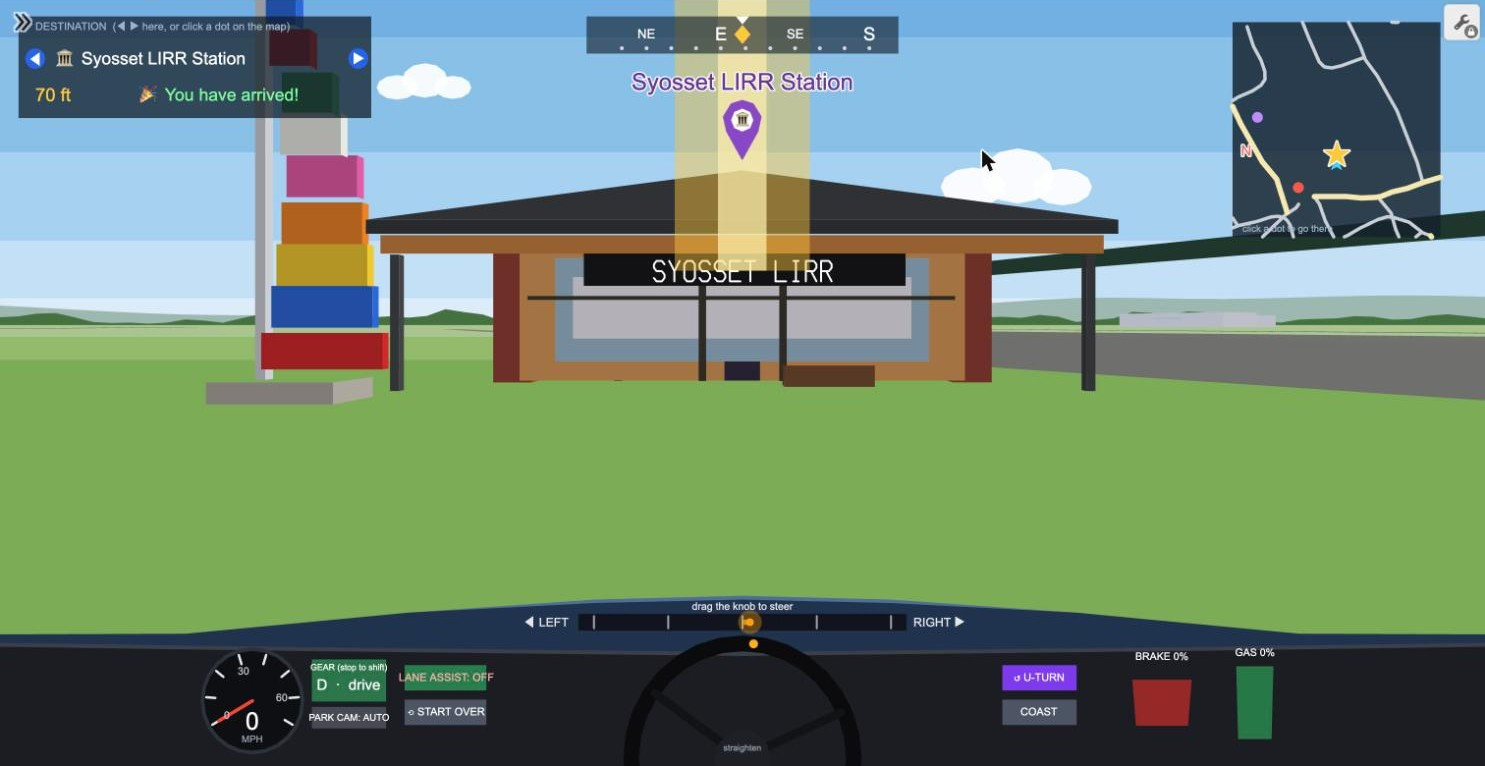
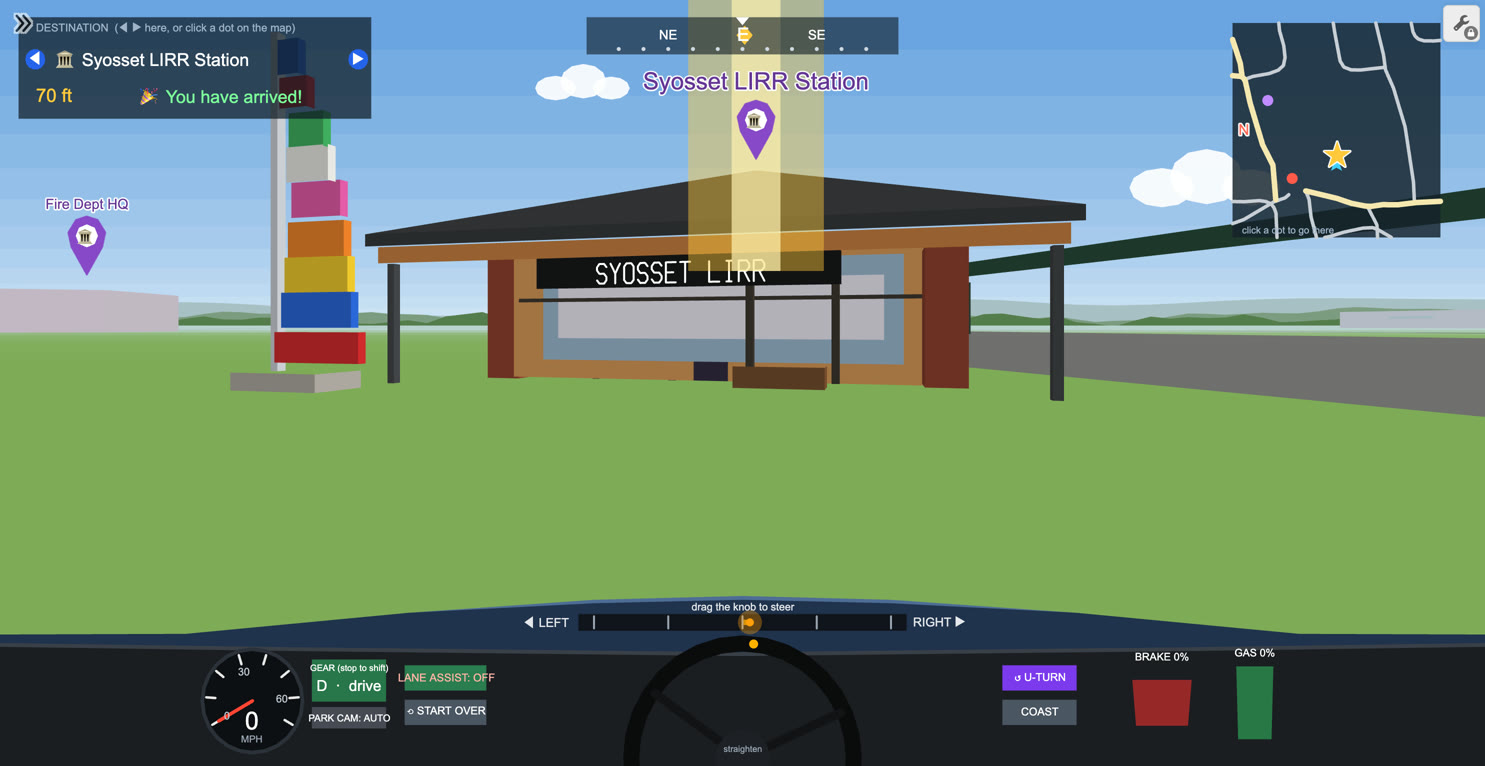
Add sky gradient, distance haze, tree shadows and sunlit crowns (patch11), fold single-use expressions, refresh screenshots

diff --git a/src/patch11.js b/src/patch11.js
@@ -1,0 +1,95 @@
+window.__build11=function(S0){
+ var S=JSON.parse(JSON.stringify(S0)), L=S.expressions.list, log=[];
+ function at(id){for(var i=0;i<L.length;i++){if(L[i].id===id)return i;}throw 'missing '+id;}
+ function get(id){return L[at(id)];}
+ function mk(id,latex,extra){var e={type:'expression',id:id,latex:latex,color:'#000000',hidden:true};if(extra)for(var k in extra)e[k]=extra[k];return e;}
+ function vis(id,latex,color,extra){var e=mk(id,latex,{hidden:false,color:color,fill:true,lines:false,fillOpacity:'1'});if(extra)for(var k in extra)e[k]=extra[k];return e;}
+ function put(i,ref,arr){var f=get(ref).folderId;arr.forEach(function(e){if(e.folderId===undefined&&f)e.folderId=f;});L.splice.apply(L,[i,0].concat(arr));}
+ function after(ref,arr){put(at(ref)+1,ref,arr);}
+ function before(ref,arr){put(at(ref),ref,arr);}
+ function drop(ids){ids.forEach(function(id){L.splice(at(id),1);});}
+ function fmt(v){return String(+v.toFixed(4));}
+ function lst(a){return '\\left['+a.map(fmt).join(',')+'\\right]';}
+ function lerp(a,b,t){return a.map(function(v,k){return Math.round(v+(b[k]-v)*t);});}
+ function col(c,k){return c.map(function(x){return x[k];});}
+
+ var sky=[0,0.02,0.045,0.075,0.11,0.15,0.2,0.26,0.33,0.41,0.5,0.6,0.72,0.86,1.4];
+ var skyCols=sky.slice(0,-1).map(function(_,i){return lerp([222,237,248],[92,156,222],Math.pow((sky[i]+sky[i+1])/2/0.95,0.6));});
+ drop(['e104','e105','e106','e107']);
+ get('e103').latex='\\operatorname{polygon}\\left(\\left(-3,y_0+\\chi_{a}\\left[i\\right]\\right),\\left(3,y_0+\\chi_{a}\\left[i\\right]\\right),\\left(3,y_0+\\chi_{b}\\left[i\\right]+0.012\\right),\\left(-3,y_0+\\chi_{b}\\left[i\\right]+0.012\\right)\\right)\\operatorname{for}i=\\left[1...'+(sky.length-1)+'\\right]';
+ get('e103').colorLatex='\\operatorname{rgb}\\left(\\chi_{R},\\chi_{G},\\chi_{B}\\right)';
+ before('e103',[mk('sy1','\\chi_{a}='+lst(sky.slice(0,-1))),mk('sy2','\\chi_{b}='+lst(sky.slice(1))),mk('sy3','\\chi_{R}='+lst(col(skyCols,0))),mk('sy4','\\chi_{G}='+lst(col(skyCols,1))),mk('sy5','\\chi_{B}='+lst(col(skyCols,2)))]);
+ log.push('sky gradient');
+
+ after('e125',[mk('hz1','h_3(x)=0.034+0.012\\sin(5t_h(x)+0.7)+0.008\\sin(13t_h(x)+2.4)+0.005\\sin(37t_h(x)+1.1)+0.003\\sin(83t_h(x))')]);
+ after('e126',[vis('hz2','\\operatorname{polygon}(\\operatorname{join}((X_{hb},y_0+h_3(X_{hb})),(2.4,y_0-0.01),(-2.4,y_0-0.01)))','#7c9c80')]);
+ get('e126').color='#a8c0c4';
+ get('e127').color='#557d4c';
+ log.push('horizon layers');
+
+ var gb=[0,0.006,0.012,0.018,0.025,0.033,0.043,0.055,0.07,0.09];
+ var gCols=gb.slice(0,-1).map(function(_,i){var d=2.32/((gb[i]+gb[i+1])/2);return lerp([126,171,87],[200,220,236],Math.min(0.8,d*d/40000));});
+ drop(['e129']);
+ get('e128').latex='\\operatorname{polygon}\\left(\\left(-3,y_0-\\eta_{a}\\left[i\\right]\\right),\\left(3,y_0-\\eta_{a}\\left[i\\right]\\right),\\left(3,y_0-\\eta_{b}\\left[i\\right]-0.006\\right),\\left(-3,y_0-\\eta_{b}\\left[i\\right]-0.006\\right)\\right)\\operatorname{for}i=\\left[1...'+(gb.length-1)+'\\right]';
+ get('e128').colorLatex='\\operatorname{rgb}\\left(\\eta_{R},\\eta_{G},\\eta_{B}\\right)';
+ before('e128',[mk('gr1','\\eta_{a}='+lst(gb.slice(0,-1))),mk('gr2','\\eta_{b}='+lst(gb.slice(1))),mk('gr3','\\eta_{R}='+lst(col(gCols,0))),mk('gr4','\\eta_{G}='+lst(col(gCols,1))),mk('gr5','\\eta_{B}='+lst(col(gCols,2)))]);
+ get('e130').latex='\\operatorname{polygon}((-3,-1.5),(3,-1.5),(3,y_0-0.089),(-3,y_0-0.089))';
+ log.push('ground haze');
+
+ before('e159',[mk('rf1','\\phi_{r}=n_m\\left(0.75,\\frac{\\left(D_{2}+D_{4}+D_{6}+D_{8}\\right)^{2}}{640000}\\right)')]);
+ get('e159').colorLatex='\\operatorname{rgb}\\left(U_{cR}\\left[Q_{tt}\\right]\\left(1-\\phi_{r}\\right)+200\\phi_{r},U_{cG}\\left[Q_{tt}\\right]\\left(1-\\phi_{r}\\right)+220\\phi_{r},U_{cB}\\left[Q_{tt}\\right]\\left(1-\\phi_{r}\\right)+236\\phi_{r}\\right)';
+ log.push('road haze');
+
+ after('e159',[
+  mk('sh1','\\psi_{k}=I_{t}\\left[E_f>1.15E_k+3\\right]'),
+  mk('sh2','\\psi_{s}=1.15E_k\\left[E_f>1.15E_k+3\\right]'),
+  mk('sh3','\\psi_{x}=T_x\\left[\\psi_{k}\\right]+0.1513\\psi_{s}'),
+  mk('sh4','\\psi_{y}=T_y\\left[\\psi_{k}\\right]+0.2591\\psi_{s}'),
+  mk('sh5','\\psi_{f}=f_f\\left(\\psi_{x},\\psi_{y}\\right)'),
+  mk('sh7','\\psi_{c}=\\left[1,0.7071,0,-0.7071,-1,-0.7071,0,0.7071\\right]'),
+  mk('sh8','\\psi_{n}=\\left[0,0.7071,1,0.7071,0,-0.7071,-1,-0.7071\\right]'),
+  vis('sh6','\\operatorname{polygon}\\left(\\frac{k_f\\left(f_r\\left(\\psi_{x}\\left[i\\right],\\psi_{y}\\left[i\\right]\\right)+\\psi_{s}\\left[i\\right]\\psi_{c}\\right)}{\\psi_{f}\\left[i\\right]},y_0-\\frac{k_fe_y}{\\psi_{f}\\left[i\\right]+\\psi_{s}\\left[i\\right]\\psi_{n}}\\right)\\operatorname{for}i=\\left[1...\\operatorname{length}\\left(\\psi_{f}\\right)\\right]','#203a1c',{fillOpacity:'0.34'})]);
+ log.push('tree shadows');
+
+ var hl={e226:'E_r-0.62E_k+0.28E_k\\sin\\left(b_{sn}\\right)',e227:'E_f-0.05',e228:'E_r+0.62E_k+0.28E_k\\sin\\left(b_{sn}\\right)',e229:'E_f-0.05',e230:'E_r',e231:'E_f',e232:'E_t+0.95E_k',e233:'E_t+2.02E_k',e234:'0E_r',e235:'1+0E_r',e236:'3+0E_r',e237:'0.8+0E_r',e238:'\\sqrt{E_r^2+E_f^2}-0.06',e239:'62+50E_g',e240:'120+50E_g',e241:'46+28E_g'};
+ Object.keys(hl).forEach(function(id){var e=get(id);if(e.latex.slice(-1)!==')')throw 'join '+id;e.latex=e.latex.slice(0,-1)+','+hl[id]+')';});
+ log.push('canopy highlights');
+
+ var TOK=/\\[a-zA-Z]+(?:_\{[^}]*\}|_[A-Za-z0-9])?|[A-Za-z](?:_\{[^}]*\}|_[A-Za-z0-9])?/g;
+ var DEF=/^\s*(\\[a-zA-Z]+(?:_\{[^}]*\}|_[A-Za-z0-9])?|[A-Za-z](?:_\{[^}]*\}|_[A-Za-z0-9])?)\s*(\([^)]*\))?\s*=/;
+ var ACT=/(\\?[A-Za-z]+(?:_\{[^}]*\}|_[A-Za-z0-9])?)\\to/g;
+ var quiet=['u_d','z_r','p_m','n_rl','c_al','p_cm','s_gq','s_gp'];
+ function norm(n){return n.replace(/[{}]/g,'');}
+ function esc(s){return s.replace(/[\\{}()[\]^$.|?*+]/g,function(c){return '\\'+c;});}
+ function names(t,re){var out=[],m;re.lastIndex=0;while((m=re.exec(t)))out.push(norm(m[1]||m[0]));return out;}
+ function fold(){
+  var tk=S.expressions.ticker.handlerLatex, acts=[tk].concat(L.map(function(e){return (e.clickableInfo&&e.clickableInfo.latex)||'';})).join(' ');
+  var assigned=new Set(names(acts,ACT)), dyn=new Set(names(tk,ACT).filter(function(n){return quiet.indexOf(n)<0;}).concat(['dt']));
+  var info=L.filter(function(e){return e.type==='expression';}).map(function(e){
+   var m=(e.latex||'').match(DEF), params=m&&m[2]?m[2].slice(1,-1).split(',').map(function(p){return norm(p.trim());}):[], name=m?norm(m[1]):null;
+   var used=names((e.latex||'')+' '+(e.colorLatex||''),TOK).filter(function(t){return params.indexOf(t)<0&&t!==name;});
+   return {e:e,name:name,fn:!!(m&&m[2]),used:used};});
+  for(var grew=true;grew;){grew=false;info.forEach(function(x){if(x.name&&!dyn.has(x.name)&&x.used.some(function(u){return dyn.has(u);})){dyn.add(x.name);grew=true;}});}
+  var text=L.map(function(e){return (e.latex||'')+' '+(e.colorLatex||'')+' '+(e.label||'');}).join(' ')+' '+acts;
+  for(var i=0;i<info.length;i++){
+   var x=info[i];
+   if(!x.name||x.name.indexOf('_')<0||x.fn||!x.e.hidden||x.e.slider||assigned.has(x.name)||!dyn.has(x.name)||x.e.latex.length>260)continue;
+   var body=x.e.latex.slice(x.e.latex.indexOf('=')+1);
+   if(/^\\left\[/.test(body))continue;
+   var raw=x.e.latex.slice(0,x.e.latex.indexOf('=')).trim(), re=new RegExp(esc(raw),'g');
+   if((text.match(re)||[]).length!==2||re.test(acts))continue;
+   re.lastIndex=0;
+   var target=L.filter(function(e){return e!==x.e&&((e.latex||'')+(e.colorLatex||'')).match(re);})[0];
+   if(!target||(target.latex||'').length+(target.colorLatex||'').length+x.e.latex.length>2400)continue;
+   var wrapped='\\left('+body+'\\right)';
+   ['latex','colorLatex'].forEach(function(k){if(target[k])target[k]=target[k].replace(re,function(){return wrapped;});});
+   L.splice(L.indexOf(x.e),1);
+   return true;
+  }
+  return false;
+ }
+ var n=0;while(fold())n++;
+ log.push('folded '+n+' single-use helpers');
+ return {S:S,log:log};
+};
+'patch11 loaded';

diff --git a/README.md b/README.md
@@ -34,9 +34,13 @@ Landmarks are modeled as buildings with a name sign on the front. The LIRR stati
 |---|---|
 | ![A green street sign reading Jackson Ave and Albert Ave](docs/images/street-sign.jpg) | ![Parked cars on both sides of a street with a top-down parking camera showing the gap to the curb](docs/images/parallel-parking-cam.jpg) |
 
+![Driving north on Jackson Avenue past the post office, with tree shadows, sunlit canopies and the street fading into haze](docs/images/jackson-ave.jpg)
+
 ## How it works
 
 **3D inside a 2D calculator.** Desmos only draws 2D shapes, so the graph does its own 3D. Each tick it takes the car's position and heading, transforms every nearby 3D point into camera space, applies a perspective divide, clips anything behind the camera, and draws the result as polygons. Faces are sorted from far to near (the painter's algorithm) so closer things cover farther ones.
+
+**Sky, haze and trees.** The sky is a 14-step gradient from pale haze at the horizon to deep blue overhead, and the horizon has three layers of hills and tree lines that get hazier the farther away they are. Buildings, trees, the grass and the roads all fade toward the same haze color with distance, so faraway streets no longer look sharper than the houses next to them. Each tree has a sunlit crown on the side facing the sun and casts a soft shadow on the ground under it.
 
 **Keeping it fast.** Desmos recomputes expressions constantly, so the cost of a frame is what matters most. Several techniques keep it playable:
 
@@ -44,6 +48,7 @@ Landmarks are modeled as buildings with a name sign on the front. The LIRR stati
 - Positions, heights and colors are packed into single integers and unpacked by expressions, which keeps the saved graph small (the world data is about 450 KB).
 - Values that change every tick but rarely matter, such as which cell the car is in, are only written when they actually change, so they do not trigger everything that depends on them.
 - Lists in Desmos are capped at 10,000 elements, so the cars, houses and road pieces are stored in per-cell lists that stay under the cap.
+- Desmos pays a fixed cost for every expression it recomputes, so helper expressions that are only used once are folded into the expression that uses them. That freed enough time to add the haze, the tree shadows and the sunlit crowns without slowing the graph down.
 
 **Driving model.** Speed responds to the gas and brake pedals, steering is a slider knob with smoothed turning, and a lane-assist option nudges the car toward the lane (it is looser in parking lanes). Reverse is a separate gear with its own speed cap.
 
@@ -58,6 +63,7 @@ Landmarks are modeled as buildings with a name sign on the front. The LIRR stati
 - **Collision speed.** The first collision version checked every nearby block and the graph slowed to a few ticks per second. A distance prefilter brought it back to roughly 19 ticks per second on my laptop.
 - **Cars in the wrong grid.** Parked cars first used the house grid, which was too coarse for them. Moving them to the finer road grid fixed the problem.
 - **Fitting letters in the font.** Each glyph is limited to 14 points, so I had to redraw the 3 and 8 to stay under the limit.
+- **Shadows that cost too much.** The first tree shadows projected all eight corners of every shadow into 3D and slowed the graph by about 6%. Projecting only each shadow's center and scaling a fixed octagon looks the same and costs almost nothing.
 
 ## Repository layout
 
@@ -69,6 +75,8 @@ src/
   patch9.js       in-browser builder: world data into Desmos expressions
   patch10.js      in-browser builder: wide streets, parked cars, collision, reverse gear,
                   parking cam, street signs and facade signs
+  patch11.js      in-browser builder: sky gradient, horizon layers, distance haze on the
+                  ground and roads, tree shadows, sunlit tree crowns, expression folding
 data/
   final_lines.json   street network (names, road class, points in meters)
   final_rail.json    LIRR line
@@ -84,6 +92,8 @@ node src/pack3.js
 ```
 
 The patch scripts run in the browser console on a Desmos page and add their expressions to a base graph state (the camera, dashboard and driving engine). That base state lives in the saved graph rather than in this repository, so the live demo is the complete working version and the code here documents how the world and the later features were built.
+
+`patch11.js` runs on the saved graph as it was after patch10: with that graph open, paste the script into the browser console, then run `Calc.setState(__build11(Calc.getState()).S)`. The live demo already includes it.
 
 ## Limits
 
